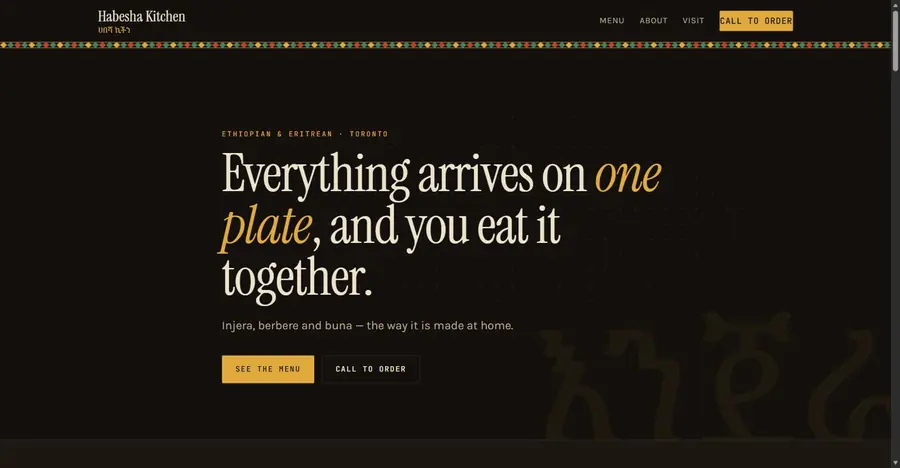
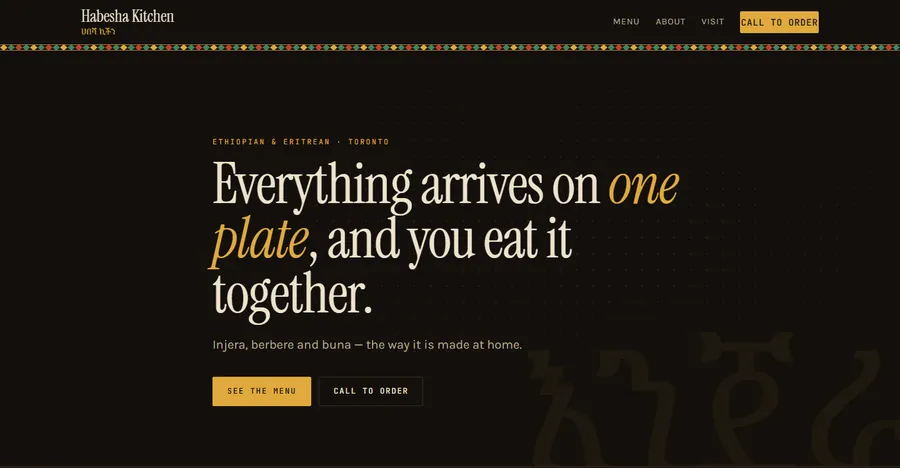
Refresh work screenshots to match current live sites

Changed region(s): [[0.2178, 0.2692, 0.7778, 0.8675], [0.0, 0.0, 1.0, 1.0]]

diff --git a/work/index.html b/work/index.html
@@ -44,7 +44,7 @@
 
       <article class="case-study reveal">
         <a class="case-visual" href="https://dhakaautoservices.ca/" target="_blank" rel="noopener">
-          <img src="/images/work/dhaka-auto.webp" alt="Dhaka Auto Services website homepage" width="900" height="468" loading="lazy" decoding="async">
+          <img src="/images/work/dhaka-auto.webp?v=20261012" alt="Dhaka Auto Services website homepage" width="900" height="468" loading="lazy" decoding="async">
         </a>
         <div class="case-copy">
           <span class="label">Dhaka Auto Services · Toronto</span>
@@ -62,7 +62,7 @@
 
       <article class="case-study reveal">
         <a class="case-visual" href="https://kiconstruction.site/" target="_blank" rel="noopener">
-          <img src="/images/work/ki-construction.webp" alt="KI Construction Materials Importer website homepage" width="900" height="468" loading="lazy" decoding="async">
+          <img src="/images/work/ki-construction.webp?v=20261012" alt="KI Construction Materials Importer website homepage" width="900" height="468" loading="lazy" decoding="async">
         </a>
         <div class="case-copy">
           <span class="label">KI Construction · Addis Ababa</span>
@@ -81,21 +81,21 @@
       <h3 class="reveal" style="margin:3rem 0 1.2rem;font-family:var(--display);font-weight:600;font-size:1.15rem">More live launches</h3>
       <div class="cols-3-shots" data-stagger>
         <a class="card shot-card" href="https://biniyameth.github.io/shawan-sagar-site/" target="_blank" rel="noopener">
-          <span class="shot"><img src="/images/work/shawan-sagar.webp" alt="Shawan Sagar realtor website homepage" loading="lazy" decoding="async" width="900" height="468"></span>
+          <span class="shot"><img src="/images/work/shawan-sagar.webp?v=20261012" alt="Shawan Sagar realtor website homepage" loading="lazy" decoding="async" width="900" height="468"></span>
           <span class="num">REAL ESTATE — GTA</span>
           <h3>Shawan Sagar, Realtor</h3>
           <p>Sales representative at HomeLife Today Realty. Buyer, seller, areas-served and FAQ pages with a free home-evaluation form — one link that works for every listing and introduction.</p>
           <span class="go">Visit site →</span>
         </a>
         <a class="card shot-card" href="https://coffeimports.netlify.app/" target="_blank" rel="noopener">
-          <span class="shot"><img src="/images/work/roby-handyman.webp" alt="Roby TV Mounting and Handyman website homepage" loading="lazy" decoding="async" width="900" height="468"></span>
+          <span class="shot"><img src="/images/work/roby-handyman.webp?v=20261012" alt="Roby TV Mounting and Handyman website homepage" loading="lazy" decoding="async" width="900" height="468"></span>
           <span class="num">TRADES — TORONTO &amp; GTA</span>
           <h3>Roby — TV Mounting &amp; Handyman</h3>
           <p>TV mounting and handyman service. One-page site with a work portfolio, customer reviews and a step-by-step quote form, so requests arrive with the job details already filled in.</p>
           <span class="go">Visit site →</span>
         </a>
         <a class="card shot-card" href="https://habesha-kitchen-toronto.netlify.app/" target="_blank" rel="noopener">
-          <span class="shot"><img src="/images/work/habesha-kitchen.webp" alt="Habesha Kitchen restaurant website homepage" loading="lazy" decoding="async" width="900" height="468"></span>
+          <span class="shot"><img src="/images/work/habesha-kitchen.webp?v=20261012" alt="Habesha Kitchen restaurant website homepage" loading="lazy" decoding="async" width="900" height="468"></span>
           <span class="num">HOSPITALITY — TORONTO</span>
           <h3>Habesha Kitchen</h3>
           <p>Ethiopian and Eritrean restaurant. One-page site with an always-current menu, hours and location, plus a staff login so the kitchen edits its own prices.</p>
